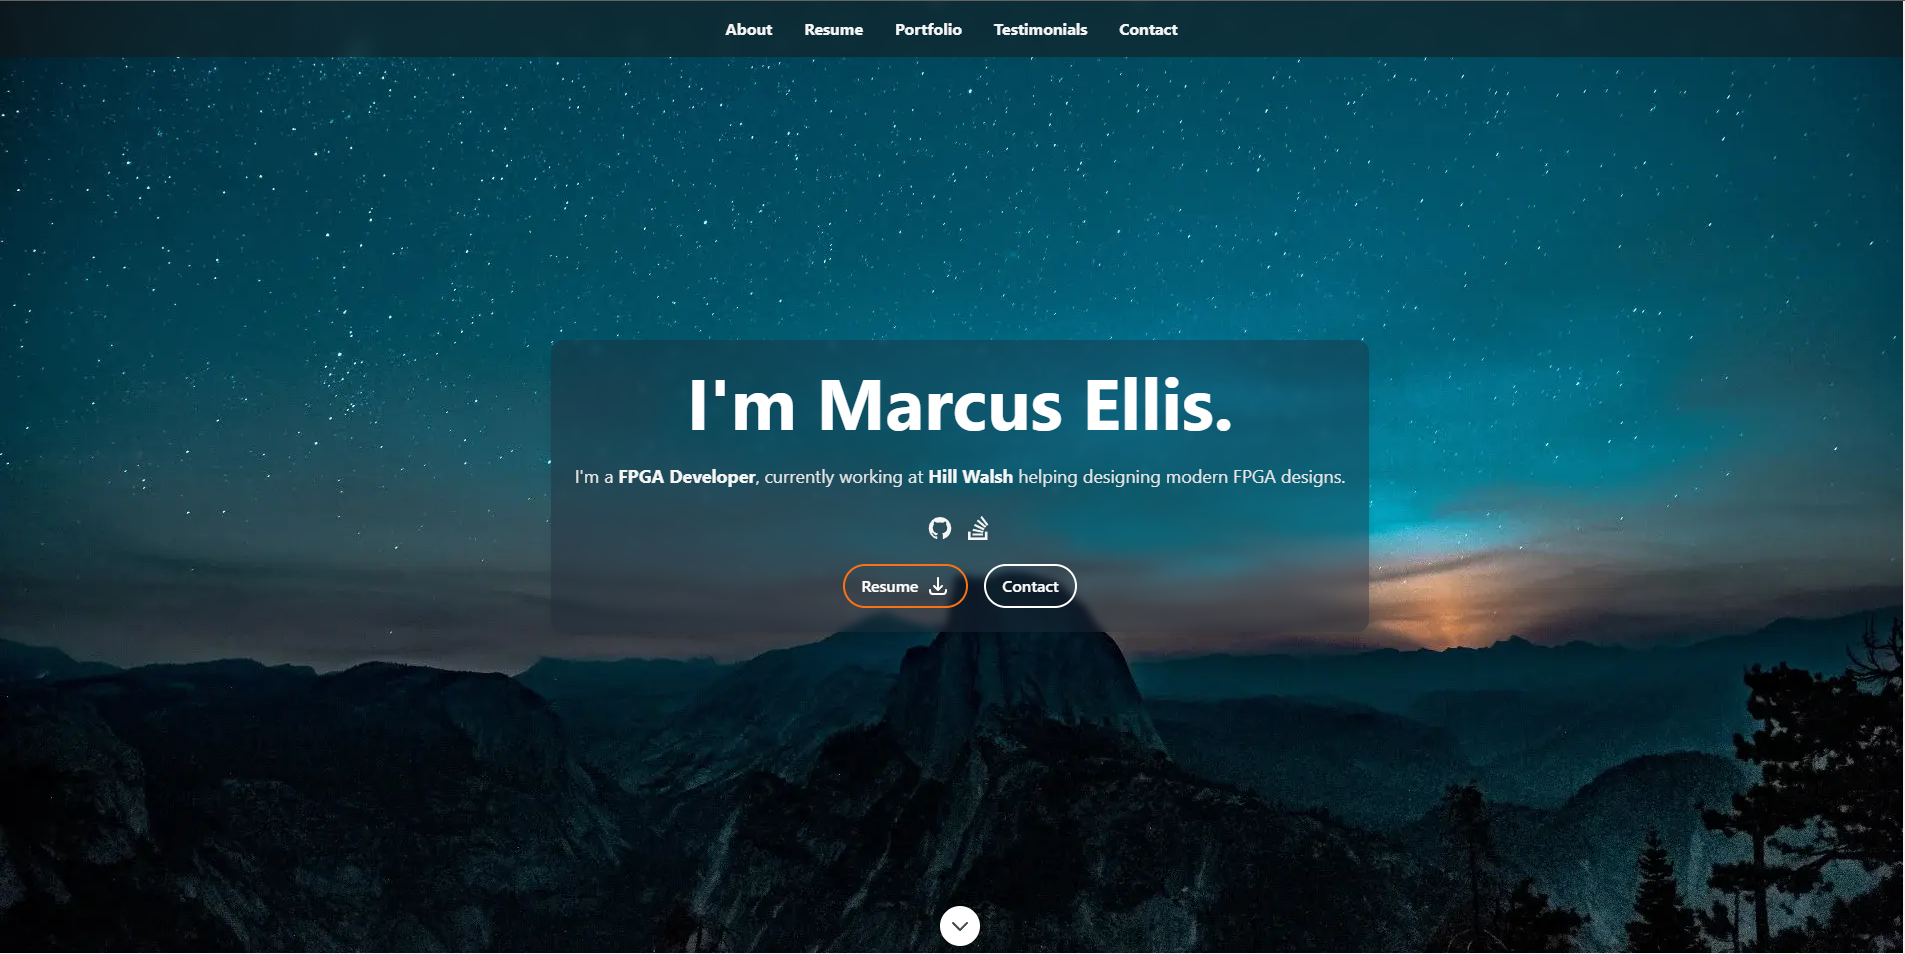
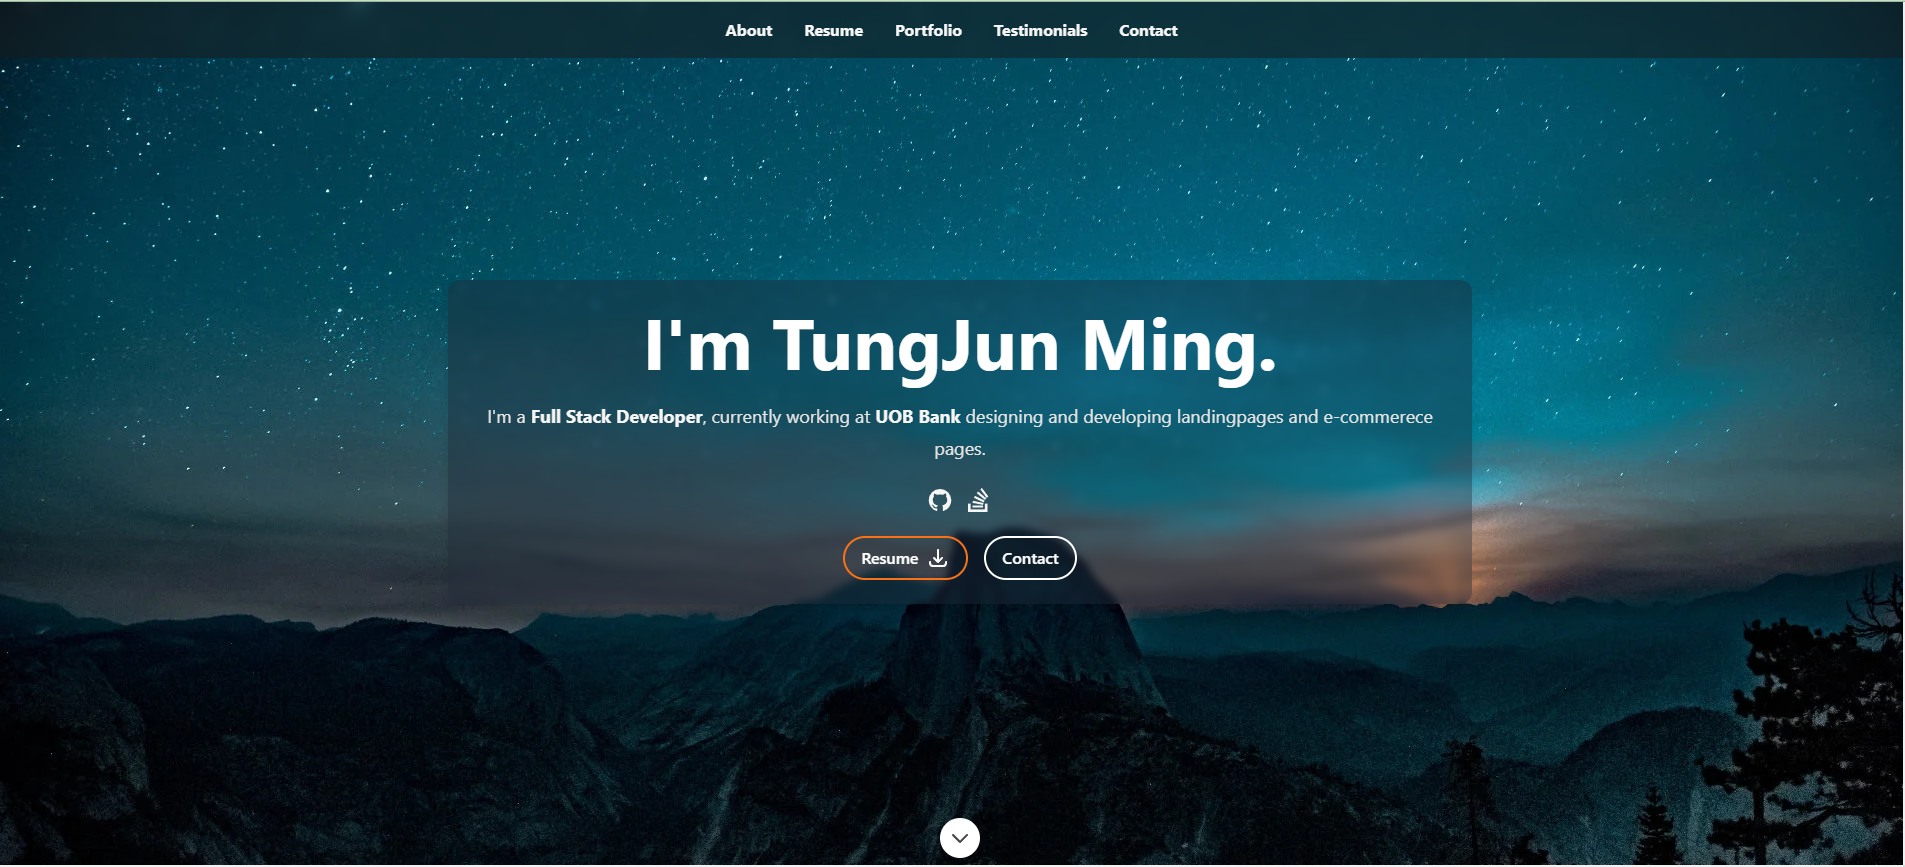
fixed/readme

diff --git a/README.md b/README.md
@@ -1,4 +1,4 @@
-# My Portfoilo - Marcus Ellis
+# My Portfoilo - TungJun Ming
 
 ![ReactJS Resume Website Template](resume-screenshot.PNG?raw=true 'ReactJS Resume Website Template')
 
